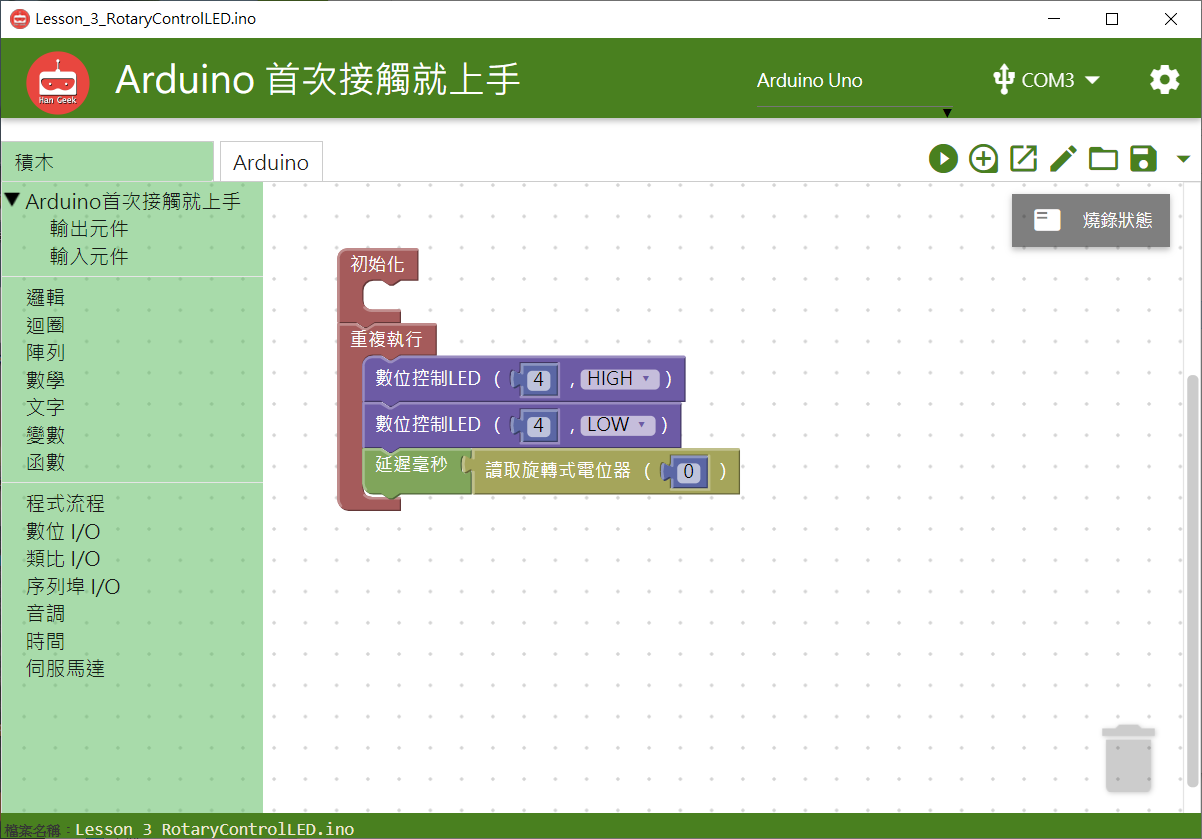
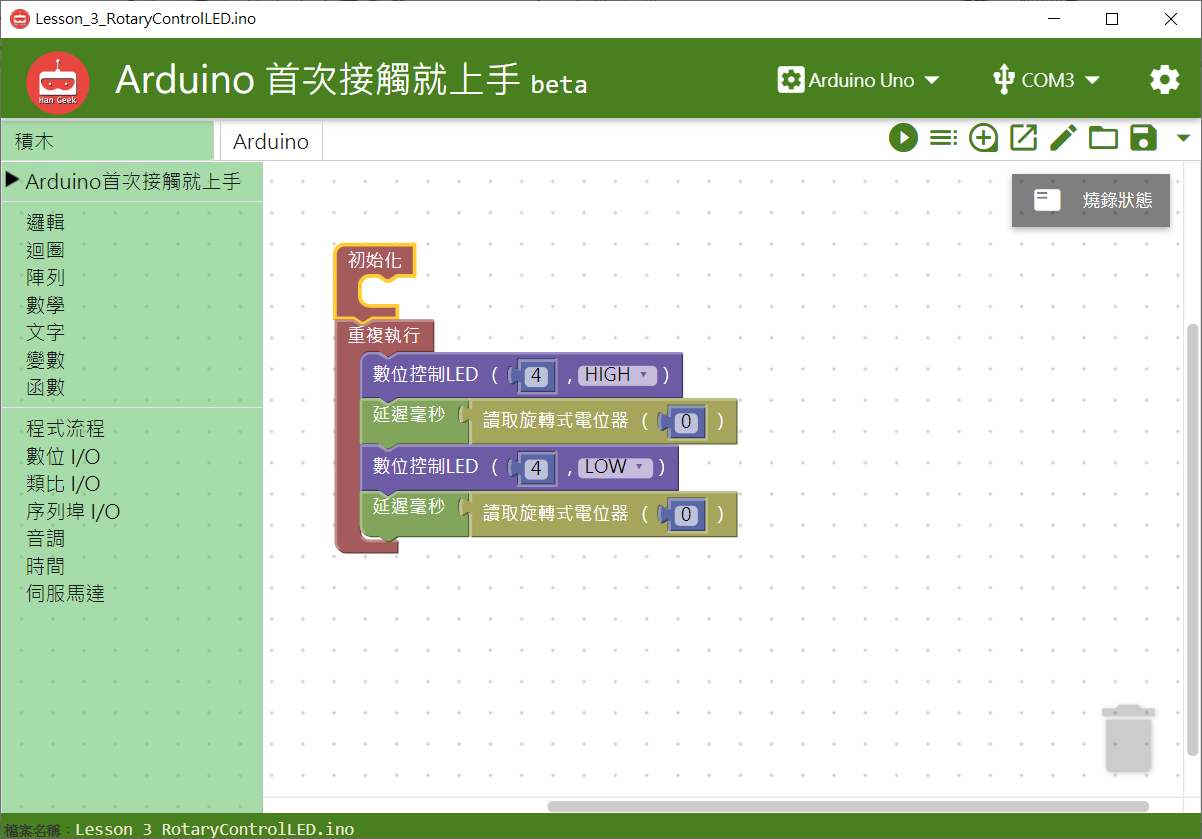
GitBook: [master] one page and one asset modified

diff --git a/hangeekduino/samplecode/input_module/rotarypotentiometer.md b/hangeekduino/samplecode/input_module/rotarypotentiometer.md
@@ -23,18 +23,17 @@ analogRead(0);
 ```text
 void setup()
 {
-  pinMode(4, OUTPUT);
 
+  pinMode(4, OUTPUT);
 }
 
 
 void loop()
 {
   digitalWrite(4, 1);
+  delay((analogRead(0)));
   digitalWrite(4, 0);
-  delay(1000);
-analogRead(0);
-
+  delay((analogRead(0)));
 }
 ```
 
